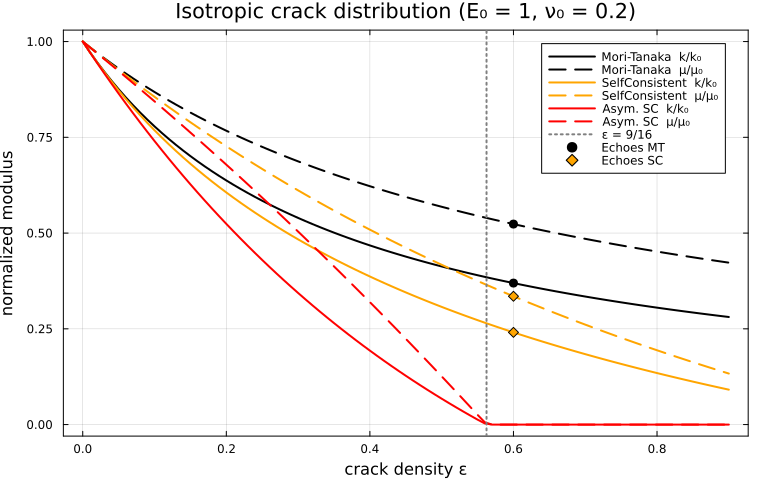
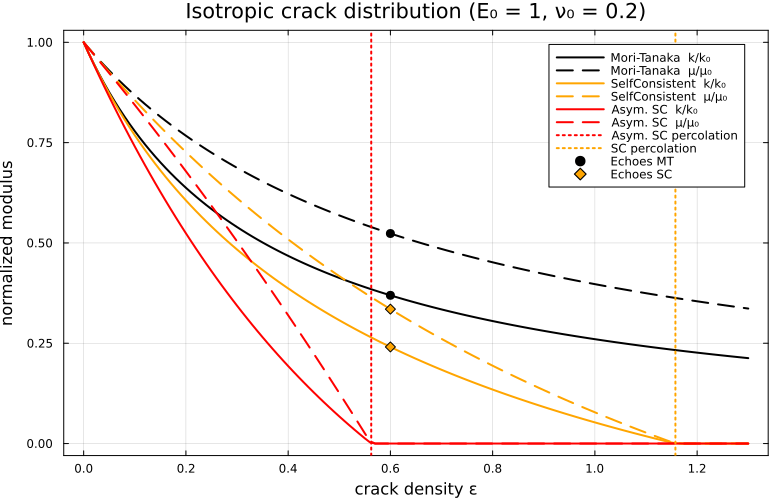
Enhance documentation with new checks and clarifications on percolation thresholds for crack distributions

diff --git a/scripts/README.md b/scripts/README.md
@@ -118,7 +118,7 @@ three-scale model (`common/pichler_model.jl`), used by both the demo script
 | `84_neural_inclusion_ellipsoid.jl` | — | **published tutorial** (`neural_inclusion`): a trained network as an inclusion, both phases. §1 how one is trained — Mermaid schematics of the network and of the fitting loop, the recipe (shown, not run) and the committed learning curve; §2 onwards how one is used — what stays exact whatever the fit (zero contrast, homogeneity, symmetry class, frame), accuracy against the closed form, the `AffineHill` factorization that makes ν₀ exact, every scheme, and `ForwardDiff` on the aspect ratio. Loads the committed models: no ML dependency, nothing trained at build time |
 
 | `85_neural_excentered_sphere.jl` | Adessina et al. (2017), IJES 119, 1-15 | **published tutorial** (`neural_excentered_sphere`): a surrogate trained on the *finite-element* localization tensors of `FEExcenteredSphere`. Gate B with the 6-component TI pair, why the features are contrast ratios and not the gate-A homogeneity, accuracy and speed-up against the finite elements, and `ForwardDiff` on the eccentricity — which the finite-element type refuses. Trained by `scripts/nn/train_excentered.jl` (~1500 solves), compared by `scripts/nn/make_excentered_figures.jl`; the page loads the committed models |
-| `86_crack_distributions.jl` | echoes `crack` + `symmetrize=[ISO]` | **published tutorial** (`crack_distributions`): the same penny cracks at ε = 0.6 under two orientation rules. MT and the symmetric SC match Echoes 1.0 to ~1e-7 in both cases; `AsymmetricSelfConsistent` is the compliance-form fixed point instead, and percolates at the Budiansky-O'Connell density 9/16. Also documents the local-versus-canonical component trap of a `TensRotated` result, and reads the five Walpole coefficients with `TensND.ti_params_from_KM` |
+| `86_crack_distributions.jl` | echoes `crack` + `symmetrize=[ISO]` | **published tutorial** (`crack_distributions`): the same penny cracks at ε = 0.6 under two orientation rules. MT and the symmetric SC match Echoes 1.0 to ~1e-7 in both cases; `AsymmetricSelfConsistent` is the compliance-form fixed point instead; both percolate but at different densities (9/16 exactly for the compliance form, about 1.158 for the stiffness one, both independent of the matrix Poisson ratio). Also documents the local-versus-canonical component trap of a `TensRotated` result, and reads the five Walpole coefficients with `TensND.ti_params_from_KM` |
 | `87_ageing_ages_aspect.jl` | — | **published tutorial** (`ageing_ages_aspect`): ageing creep with `ViscoLaw(J, :creep)` on both phases — three loading ages t' x three inclusion aspect ratios under Mori-Tanaka. Shows that the morphological effect is a near-constant offset independent of t', and that flattening the inclusions *reduces* the effective creep. Eleven ALV runs on a 60-point grid |
 
 Scripts 84 and 85 need nothing beyond the package: it loads the surrogates committed

diff --git a/docs/src/developer/testing_conventions.md b/docs/src/developer/testing_conventions.md
@@ -82,3 +82,30 @@ Run coverage through `.github/scripts/coverage.jl` rather than the stock
 The stock processor misattributes lines inside generated functions and
 multi-line expressions — observed reporting ~59 % where the true figure is
 ~95 %. Trust the script's numbers over the action's.
+
+## Checking the documentation without a full build
+
+`docs/make.jl` re-executes every page and takes tens of minutes, most of it
+spent on pages nobody just edited. For the edit/check loop use the partial
+check instead — it runs only the `@setup` / `@example` / `@repl` blocks of the
+pages you name, one fresh module per block group, exactly as Documenter
+sandboxes them:
+
+```
+julia --project=docs docs/check_blocks.jl theory/hill_tensors.md manual/
+julia --project=docs docs/check_blocks.jl $(git diff --name-only -- 'docs/src/*.md')
+```
+
+It catches what breaks a build in practice: undefined names, a binding that
+shadows an import (`strip = ...` over `Base.strip`), state a block silently
+inherited from elsewhere, method errors. Exit status is non-zero on any failure.
+
+It does **not** replace the full build, which is still what validates
+cross-references, the `pages` tree, citations and the page-size thresholds.
+
+And neither of them can tell you that an *interactive* figure came out blank:
+Documenter reports nothing, and the HTML is well-formed either way. That needs a
+browser, with software WebGL enabled — the exact invocation is recorded at the
+end of `docs/check_blocks.jl`. Without those flags plotly.js reports "WebGL is
+not supported by your browser" and every 3-D scene renders as a gray box, which
+looks like a broken figure and is not one.

diff --git a/docs/src/tutorials/index.md b/docs/src/tutorials/index.md
@@ -30,7 +30,7 @@ and the one where the choice of scheme matters most.
 | :--- | :--- |
 | [Hill polarization tensors in practice](generated/hill_tensors.md) | `hill_tensor` on four geometries; residues vs cubature on an anisotropic matrix; the Eshelby tensor against its closed form; `P` → a dilute estimate |
 | [Cracks and crack density](cracks.md) | volume fraction → crack density; the COD tensor |
-| [Crack distributions: isotropic or parallel](generated/crack_distributions.md) | the same density, two orientation rules; where the two self-consistent forms part company and why one of them percolates at ε = 9/16; the local-versus-global frame of a `TensRotated` result |
+| [Crack distributions: isotropic or parallel](generated/crack_distributions.md) | the same density, two orientation rules; the two self-consistent forms and their two percolation thresholds (9/16 exactly for the compliance form, ≈ 1.158 for the stiffness one); the local-versus-global frame of a `TensRotated` result |
 | [Layered spheres](generated/layered_sphere.md) | Hervé–Zaoui `n`-layer localization and layer averages |
 | [Layered spheroids: geometry and effective conductivity](generated/layered_spheroid_effective.md) | the confocal `n`-layer spheroid, the equivalent particle, harmonic-series accuracy |
 | [Imperfect interfaces: what they do to the local fields](generated/layered_spheroid_interfaces.md) | pointwise temperature and flux, streamlines, conductance sweep, 3-D view |

diff --git a/docs/src/manual/from_echoes.md b/docs/src/manual/from_echoes.md
@@ -242,7 +242,7 @@ up a place where the two libraries do *not* line up trivially:
 
 | Page | What the cross-check shows |
 | :--- | :--- |
-| [Crack distributions: isotropic or parallel](@ref tut-crack-distributions) | `MoriTanaka` and `SelfConsistent` reproduce Echoes to ``\sim 10^{-7}`` on both an isotropic and a single-orientation crack population — but `AsymmetricSelfConsistent` is a *different* fixed point, not the translation of Echoes' `SC`, and it percolates where Echoes' does not |
+| [Crack distributions: isotropic or parallel](@ref tut-crack-distributions) | `MoriTanaka` and `SelfConsistent` reproduce Echoes to ``\sim 10^{-7}`` on both an isotropic and a single-orientation crack population — but `AsymmetricSelfConsistent` is a *different* fixed point, not the translation of Echoes' `SC`, and it percolates at about half the crack density |
 | [Ageing creep: loading age against inclusion shape](@ref tut-ageing-ages-aspect) | the ageing-viscoelastic counterpart of the table above: `ViscoLaw(J, :creep)` against Echoes' `visco_prop={"C": (Js, CREEP)}`, swept over loading ages and aspect ratios |
 
 Without Echoes or PyCall, each cross-check has a PyCall-free counterpart:

diff --git a/docs/src/manual/cracks.md b/docs/src/manual/cracks.md
@@ -112,10 +112,12 @@ orientation distribution:
 - **isotropic or TI distribution** (`symmetrize = IsoSymmetrize()` or
   `TISymmetrize(axis)`) — both forms run, and they solve **different fixed
   points**: the symmetric one iterates on the stiffness, the asymmetric one on
-  the compliance. Only the latter is the classical Budiansky–O'Connell
-  construction, and only it percolates (at ``\varepsilon = 9/16`` for randomly
-  oriented penny cracks). Which one to pick is a modeling decision, and it is
-  worked out with numbers in
+  the compliance. Both **percolate**, but not at the same crack density: for
+  randomly oriented penny cracks the compliance form reaches zero at the classical
+  Budiansky–O'Connell value ``\varepsilon = 9/16`` exactly, the stiffness one at
+  ``\varepsilon \approx 1.158`` — both independent of ``\nu_0``. Between the two thresholds they therefore
+  disagree qualitatively, not just numerically. Which one to pick is a modeling
+  decision, worked out with numbers in
   [Crack distributions: isotropic or parallel](@ref tut-crack-distributions).
 
 For the **time-dependent** (ALV) version with `Rn(t,t')` and

diff --git a/docs/src/theory/hill_tensors.md b/docs/src/theory/hill_tensors.md
@@ -58,11 +58,11 @@ panels = [
     panel("penny crack\nω → 0", :sienna; ρt = 0.95, ρa = 0.035),
 ]
 
-strip = plot(panels...; layout = (1, 6), size = (900, 170), top_margin = 3Plots.mm)
+shape_strip = plot(panels...; layout = (1, 6), size = (900, 170), top_margin = 3Plots.mm)
 ```
 
 ```@example hillshapes
-strip
+shape_strip # hide
 ```
 
 Two of the six are limits rather than bounded bodies: the cylinder leaves the

diff --git a/docs/src/theory/differential_scheme.md b/docs/src/theory/differential_scheme.md
@@ -339,7 +339,7 @@ nothing # hide
 ```
 
 ```@example diffpaths
-p
+p # hide
 ```
 
 They all agree in the dilute limit — near the origin every curve is tangent to

diff --git a/docs/src/theory/corrected_cell.md b/docs/src/theory/corrected_cell.md
@@ -58,7 +58,7 @@ nothing # hide
 ```
 
 ```@example cell
-p
+p # hide
 ```
 
 Without the dipole term the boundary carries the remote field alone, and the ball
